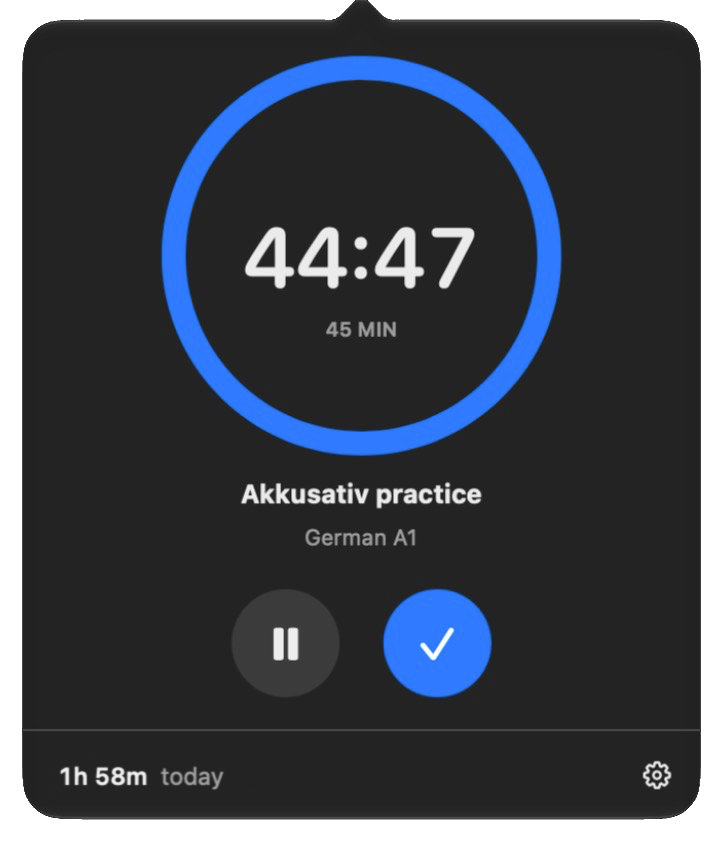
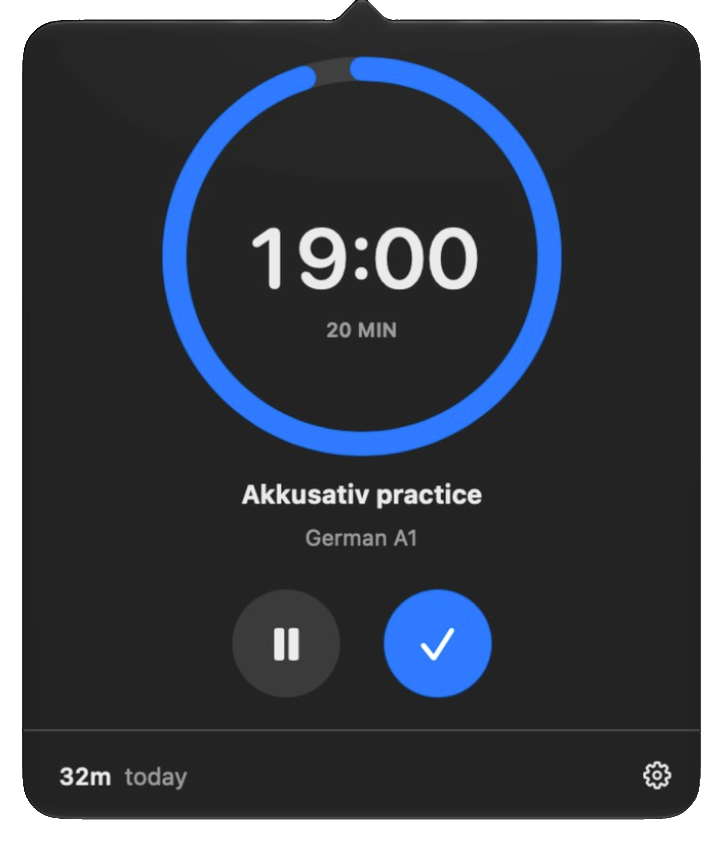
docs: retake the README screenshot

diff --git a/memory-bank/history.md b/memory-bank/history.md
@@ -4,4 +4,4 @@
 | --- | --- | --- | --- | --- |
 | 2026-10-13 | [2026-10-13_study-timer-v1](../plans/2026-10-13_study-timer-v1.md) | The v1 spec followed an analysis of real Notion study logs. It covers a native Swift menu bar app, multi-card sessions, a stopwatch or countdown with alarm and overtime, pause with sleep-pause, one row per commit, and offline retry. Built in eight steps and verified with a live commit. During the build, commits moved to whole minutes because Notion drops seconds, screen lock began to pause like sleep, and the UI dropped all gradients. | implemented | — |
 | 2026-10-13 | [2026-10-13_public-repo](../plans/2026-10-13_public-repo.md) | Connect asks for the data source ID, and the README covers setup. A rewrite removed Notion IDs and personal email addresses from every commit before `main` went public on 2026-10-13. | implemented | — |
-| 2026-10-14 | [2026-10-14_today-stats](../plans/2026-10-14_today-stats.md) | Stats switch from a rolling 24 hours to the calendar day since local midnight. The footer reads `today`. The README screenshot's footer was redrawn on the existing image. | implemented | — |
+| 2026-10-14 | [2026-10-14_today-stats](../plans/2026-10-14_today-stats.md) | Stats switch from a rolling 24 hours to the calendar day since local midnight. The footer reads `today`. The README screenshot was retaken. | implemented | — |

diff --git a/plans/2026-10-14_today-stats.md b/plans/2026-10-14_today-stats.md
@@ -18,8 +18,8 @@ The day starts at local midnight.
 4. The Stats header reads `Today`.
 5. `StatsTests` use a noon `now`. The window test becomes a midnight-crossing test. A new test
    checks that the calendar's time zone sets the day boundary.
-6. `docs/screenshot.png` drops the removed chart icon and reads `1h 58m today`. The footer text
-   is redrawn on the existing image, because a retake would put live Notion data on screen.
+6. `docs/screenshot.png` is retaken from the running app: a 20-minute countdown one minute in.
+   The owner allowed live Notion data on screen for this capture.
 7. After the change lands, `projectbrief.md` and `techContext.md` drop the 24-hour wording.
 
 ## Out of scope
